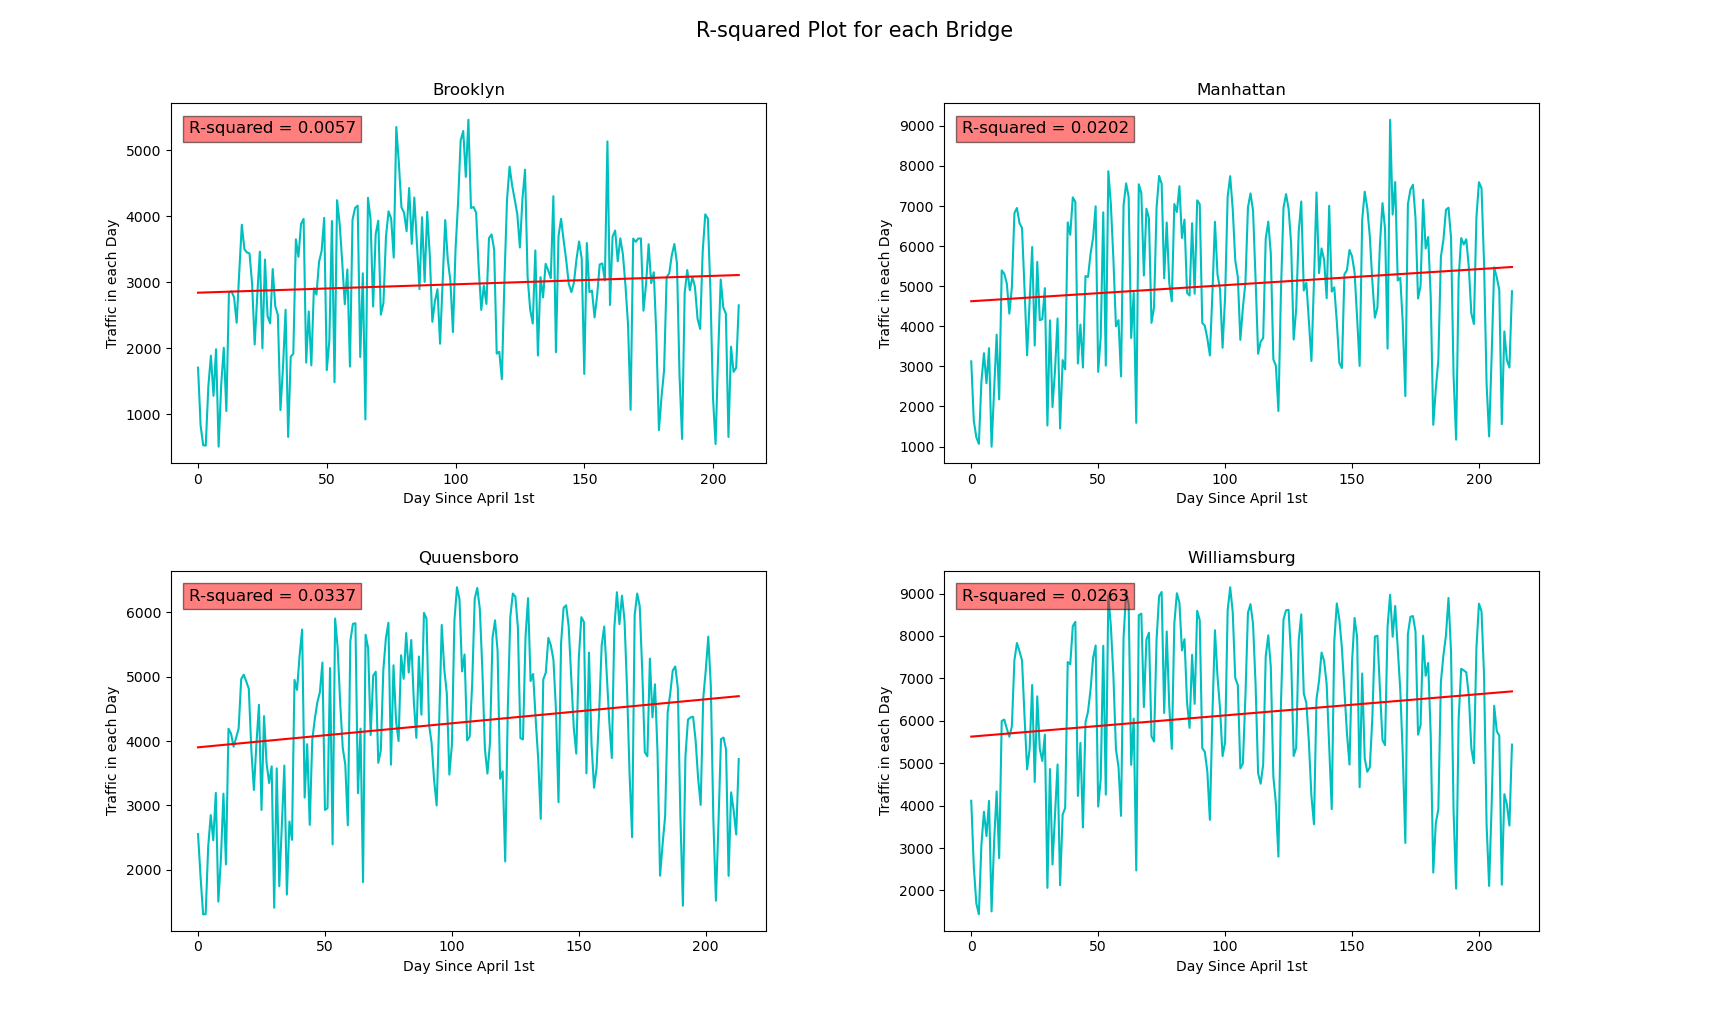
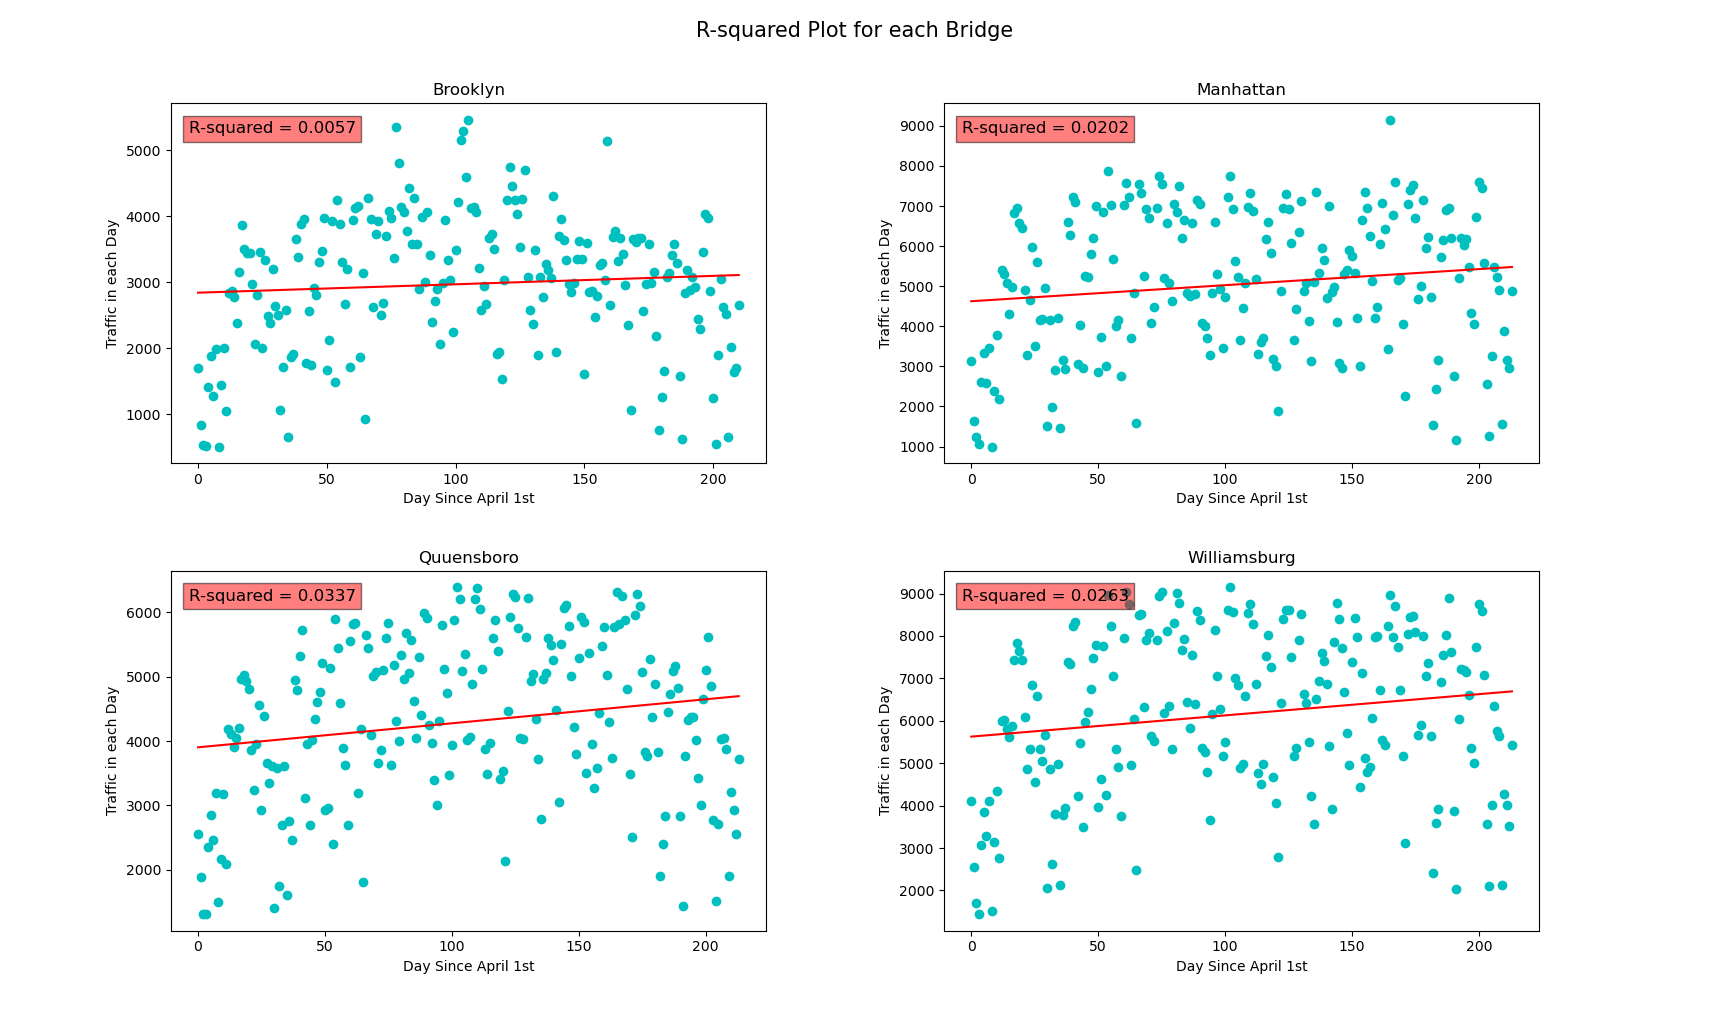
11/30

diff --git a/MiniProjectPath1.py b/MiniProjectPath1.py
@@ -1,12 +1,9 @@
-import pandas as pd
-import matplotlib.pyplot as mp
 import numpy as np
-from sklearn.linear_model import LinearRegression
-from sklearn.metrics import r2_score
+import pandas as pd
 import statistics as st
-
-# 2. The city administration is cracking down on helmet laws, and wants to deploy police officers on days with high traffic to hand out citations. Can they use the next day's weather forecast(low/high temperature and precipitation) to predict the total number of bicyclists that day? 
-# 3. Can you use this data to predict what *day* (Monday to Sunday) is today based on the number of bicyclists on the bridges?
+import matplotlib.pyplot as mp
+from sklearn.metrics import r2_score
+from sklearn.linear_model import LinearRegression
 
 def main():
     
@@ -21,7 +18,7 @@ def main():
     print("")
     print("Problem 1:")
     test1 = R_2_best_bridges(dataset_1)
-    test2 = Total_best_bridges(dataset_1)
+    test2 = Abs_Avg_Dev_best_bridges(dataset_1)
     print("Selected Bridges:", Select_best_bridges(test1, test2, bridge_name))
     
     print("")
@@ -38,6 +35,9 @@ def main():
     return 0
 
 # First Problem
+
+# 1. You want to install sensors on the bridges to estimate overall traffic across all the bridges. But you only have enough budget to install sensors on three of the four bridges. Which bridges should you install the sensors on to get the best prediction of overall traffic?
+
 def data_preprocessing(array):
     arr = np.array(array)
     q3, q1 = np.percentile(arr, (75, 25))
@@ -54,6 +54,14 @@ def R_2_best_bridges(dataset_1):
     # Calculating top three bridges using R-squared method after preprocessing the data using IQR
 
     new_arr1 = data_preprocessing(dataset_1['Brooklyn Bridge'])
+    new_arr2 = data_preprocessing(dataset_1['Manhattan Bridge'])
+    new_arr3 = data_preprocessing(dataset_1['Queensboro Bridge'])
+    new_arr4 = data_preprocessing(dataset_1['Williamsburg Bridge'])
+
+    # new_arr1 = dataset_1['Brooklyn Bridge']
+    # new_arr2 = dataset_1['Manhattan Bridge']
+    # new_arr3 = dataset_1['Queensboro Bridge']
+    # new_arr4 = dataset_1['Williamsburg Bridge']
     a1 = [0]*len(new_arr1)
     count = 1
     for i in range(len(a1)):
@@ -68,7 +76,7 @@ def R_2_best_bridges(dataset_1):
     p = np.poly1d(z)
 
     fg1 = mp.subplot(2, 2, 1)
-    mp.plot([x for x in range(len(new_arr1))], new_arr1 , color = 'c')
+    mp.scatter([x for x in range(len(new_arr1))], new_arr1 , color = 'c')
     mp.plot(x1, p(x1), 'r')
 
     for i in range(len(new_arr1)):
@@ -77,7 +85,7 @@ def R_2_best_bridges(dataset_1):
     fg1.text(0.17, 0.93, 'R-squared = %0.4f' % r2_list[0], horizontalalignment='center', verticalalignment='center', transform=fg1.transAxes, fontsize = 12, bbox=dict(facecolor='red', alpha=0.5))
 
 
-    new_arr2 = data_preprocessing(dataset_1['Manhattan Bridge'])
+    
     a2 = [0]*len(new_arr2)
     count = 1
     for i in range(len(a2)):
@@ -89,7 +97,7 @@ def R_2_best_bridges(dataset_1):
     z = np.polyfit([x for x in range(len(new_arr2))], new_arr2,1)
     p = np.poly1d(z)
     fg2 = mp.subplot(2, 2, 2)
-    mp.plot([x for x in range(len(new_arr2))], new_arr2, color = 'c')
+    mp.scatter([x for x in range(len(new_arr2))], new_arr2, color = 'c')
     mp.plot(x2, p(x2), 'r')
 
     for i in range(len(new_arr2)):
@@ -98,7 +106,7 @@ def R_2_best_bridges(dataset_1):
     fg2.text(0.17, 0.93, 'R-squared = %0.4f' % r2_list[1], horizontalalignment='center', verticalalignment='center', transform=fg2.transAxes, fontsize = 12, bbox=dict(facecolor='red', alpha=0.5))
 
 
-    new_arr3 = data_preprocessing(dataset_1['Queensboro Bridge'])
+    
     a3 = [0]*len(new_arr3)
     count = 1
     for i in range(len(a3)):
@@ -110,7 +118,7 @@ def R_2_best_bridges(dataset_1):
     z = np.polyfit([x for x in range(len(new_arr3))], new_arr3,1)
     p = np.poly1d(z)
     fg3 = mp.subplot(2, 2, 3)
-    mp.plot([x for x in range(len(new_arr3))], new_arr3, color = 'c')
+    mp.scatter([x for x in range(len(new_arr3))], new_arr3, color = 'c')
     mp.plot(x3, p(x3), 'r')
 
     for i in range(len(new_arr3)):
@@ -119,7 +127,7 @@ def R_2_best_bridges(dataset_1):
     fg3.text(0.17, 0.93, 'R-squared = %0.4f' % r2_list[2], horizontalalignment='center', verticalalignment='center', transform=fg3.transAxes, fontsize = 12, bbox=dict(facecolor='red', alpha=0.5))
 
 
-    new_arr4 = data_preprocessing(dataset_1['Williamsburg Bridge'])
+    
     a4 = [0]*len(new_arr4)
     count = 1
     for i in range(len(a4)):
@@ -132,7 +140,7 @@ def R_2_best_bridges(dataset_1):
     z = np.polyfit([x for x in range(len(new_arr4))], new_arr4,1)
     p = np.poly1d(z)
     fg4 = mp.subplot(2, 2, 4)
-    mp.plot([x for x in range(len(new_arr4))], new_arr4, color = 'c')
+    mp.scatter([x for x in range(len(new_arr4))], new_arr4, color = 'c')
     mp.plot(x4, p(x4), 'r')
 
     for i in range(len(new_arr4)):
@@ -159,28 +167,33 @@ def R_2_best_bridges(dataset_1):
     least_r2_index = r2_list.index(min(r2_list))
     return(least_r2_index)
 
-def Total_best_bridges(dataset_1):
+def Abs_Avg_Dev_best_bridges(dataset_1):
 
-    #Calculating top three bridges with the most total traffic
+    #Calculating top three bridges using absolute average deviation function
 
     Bridge_list = [0]*4
-    Bridge_list[0] = sum(dataset_1['Brooklyn Bridge'])
-    Bridge_list[1] = sum(dataset_1['Manhattan Bridge'])
-    Bridge_list[2] = sum(dataset_1['Williamsburg Bridge'])
-    Bridge_list[3] = sum(dataset_1['Queensboro Bridge'])
-    
+    Bridge_list[0] = sum(data_preprocessing((dataset_1['Brooklyn Bridge'])))
+    Bridge_list[1] = sum(data_preprocessing(dataset_1['Manhattan Bridge']))
+    Bridge_list[2] = sum(data_preprocessing(dataset_1['Williamsburg Bridge']))
+    Bridge_list[3] = sum(data_preprocessing(dataset_1['Queensboro Bridge']))
+    # Bridge_list = np.array[Bridge_list]
     x_axis = ['Brooklyn', 'Manhattan', 'Williamsburg', 'Queensboro']
-
+    y_mean = [np.mean(Bridge_list)]*len(Bridge_list)
+    abs_avg_dev = [0]*4
+    for i in range(len(y_mean)):
+        abs_avg_dev[i] = abs(Bridge_list[i] - y_mean[i])
     mp.figure(2)
     mp.bar(x_axis, Bridge_list, color = 'c')
+    mp.plot(x_axis,y_mean, label='Mean', linestyle='--', color = 'red')
     mp.xlabel('Name of Bridges')
     mp.ylabel('Total Number of Bicyclists (million)')
     mp.title('Total Number of Bicyclists for each Bridge', fontsize = 15)
+    mp.legend()
     mp.show()
 
-    least_total_index = Bridge_list.index(min(Bridge_list))
+    largest_deviation = abs_avg_dev.index(max(abs_avg_dev))
 
-    return(least_total_index)
+    return(largest_deviation)
 
 def Select_best_bridges(test1, test2, bridge_name):
     # finds and removes the least favorable bridges from the bridge_name
@@ -195,6 +208,9 @@ def Select_best_bridges(test1, test2, bridge_name):
     
     
 # Second Problem
+
+# 2. The city administration is cracking down on helmet laws, and wants to deploy police officers on days with high traffic to hand out citations. Can they use the next day's weather forecast(low/high temperature and precipitation) to predict the total number of bicyclists that day? 
+
 def sort(list1, list2):
     sorted_list1, sorted_list2 = (list(t) for t in zip(*sorted(zip(list1, list2))))
     return sorted_list1, sorted_list2
@@ -249,15 +265,15 @@ def temp(dataset_1):
     mp.subplot(3,1,1)
     x_1 = np.array(x_p).reshape((-1,1))
     y_1 = np.array(y_precipitation)
-    model = LinearRegression()
-    model.fit(x_1, y_1)
+    model1 = LinearRegression()
+    model1.fit(x_1, y_1)
     # r_sq = model.score(x_1, y_1)
     # print(r_sq)
     # print("coefficient:", model.coef_)
     # print("y-intercent:", model.intercept_)
-    mp.scatter(x_p, y_precipitation, label='Precipitation')
-    mp.plot(x_1, model.predict(x_1), label = 'Linear Regression', color = 'green')
-    mp.plot(x_p, p_p(x_p),label = 'Trendline', color = 'r')
+    mp.scatter(x_p, y_precipitation, label='Precipitation', color = 'c')
+    mp.plot(x_1, model1.predict(x_1), label = 'Linear Regression', color = 'dodgerblue')
+    mp.plot(x_p, p_p(x_p),label = 'Trendline', color = 'purple')
     mp.xlabel('Daily Average Temperature (°F)')
     mp.ylabel('Total Bike Traffic (24 hr period)')
     mp.legend()
@@ -265,25 +281,27 @@ def temp(dataset_1):
     mp.subplot(3,1,2)
     x_2 = np.array(x_np).reshape((-1,1))
     y_2 = np.array(y_noprecipitation)
-    model = LinearRegression()
-    model.fit(x_2, y_2)
+    model2 = LinearRegression()
+    model2.fit(x_2, y_2)
     # print("coefficient:", model.coef_)
     # print("y-intercent:", model.intercept_)
-    mp.scatter(x_np, y_noprecipitation, label='No Precipitation', color = 'darkorange')
-    mp.plot(x_2, model.predict(x_2), label = 'Linear Regression', color = 'green')
-    mp.plot(x_np, p_np(x_np),label = 'Trendline', color = 'r')
+    mp.scatter(x_np, y_noprecipitation, label='No Precipitation', color = 'coral')
+    mp.plot(x_2, model2.predict(x_2), label = 'Linear Regression', color = 'red')
+    mp.plot(x_np, p_np(x_np),label = 'Trendline', color = 'purple')
     mp.xlabel('Daily Average Temperature (°F)')
     mp.ylabel('Total Bike Traffic (24 hr period)')
     mp.legend()
 
     mp.subplot(3,1,3)
-    mp.scatter(x_p, y_precipitation, label='Precipitation')
-    mp.scatter(x_np, y_noprecipitation, label='No Precipitation', color = 'darkorange')
+    mp.scatter(x_p, y_precipitation, label='Precipitation', color = 'c')
+    mp.scatter(x_np, y_noprecipitation, label='No Precipitation', color = 'coral')
+    mp.plot(x_1, model1.predict(x_1), label = 'Linear Regression (Precipitation)', color = 'dodgerblue')
+    mp.plot(x_2, model2.predict(x_2), label = 'Linear Regression (No Precipitation)', color = 'red')
     mp.xlabel('Daily Average Temperature (°F)')
     mp.ylabel('Total Bike Traffic (24 hr period)')
     mp.legend()
     mp.show()
-    
+
     return 0
 
 def user_input():
@@ -301,6 +319,9 @@ def user_input():
     return total
 
 # Third Problem
+
+# 3. Can you use this data to predict what *day* (Monday to Sunday) is today based on the number of bicyclists on the bridges?
+
 
 if __name__ == '__main__':
     main()
